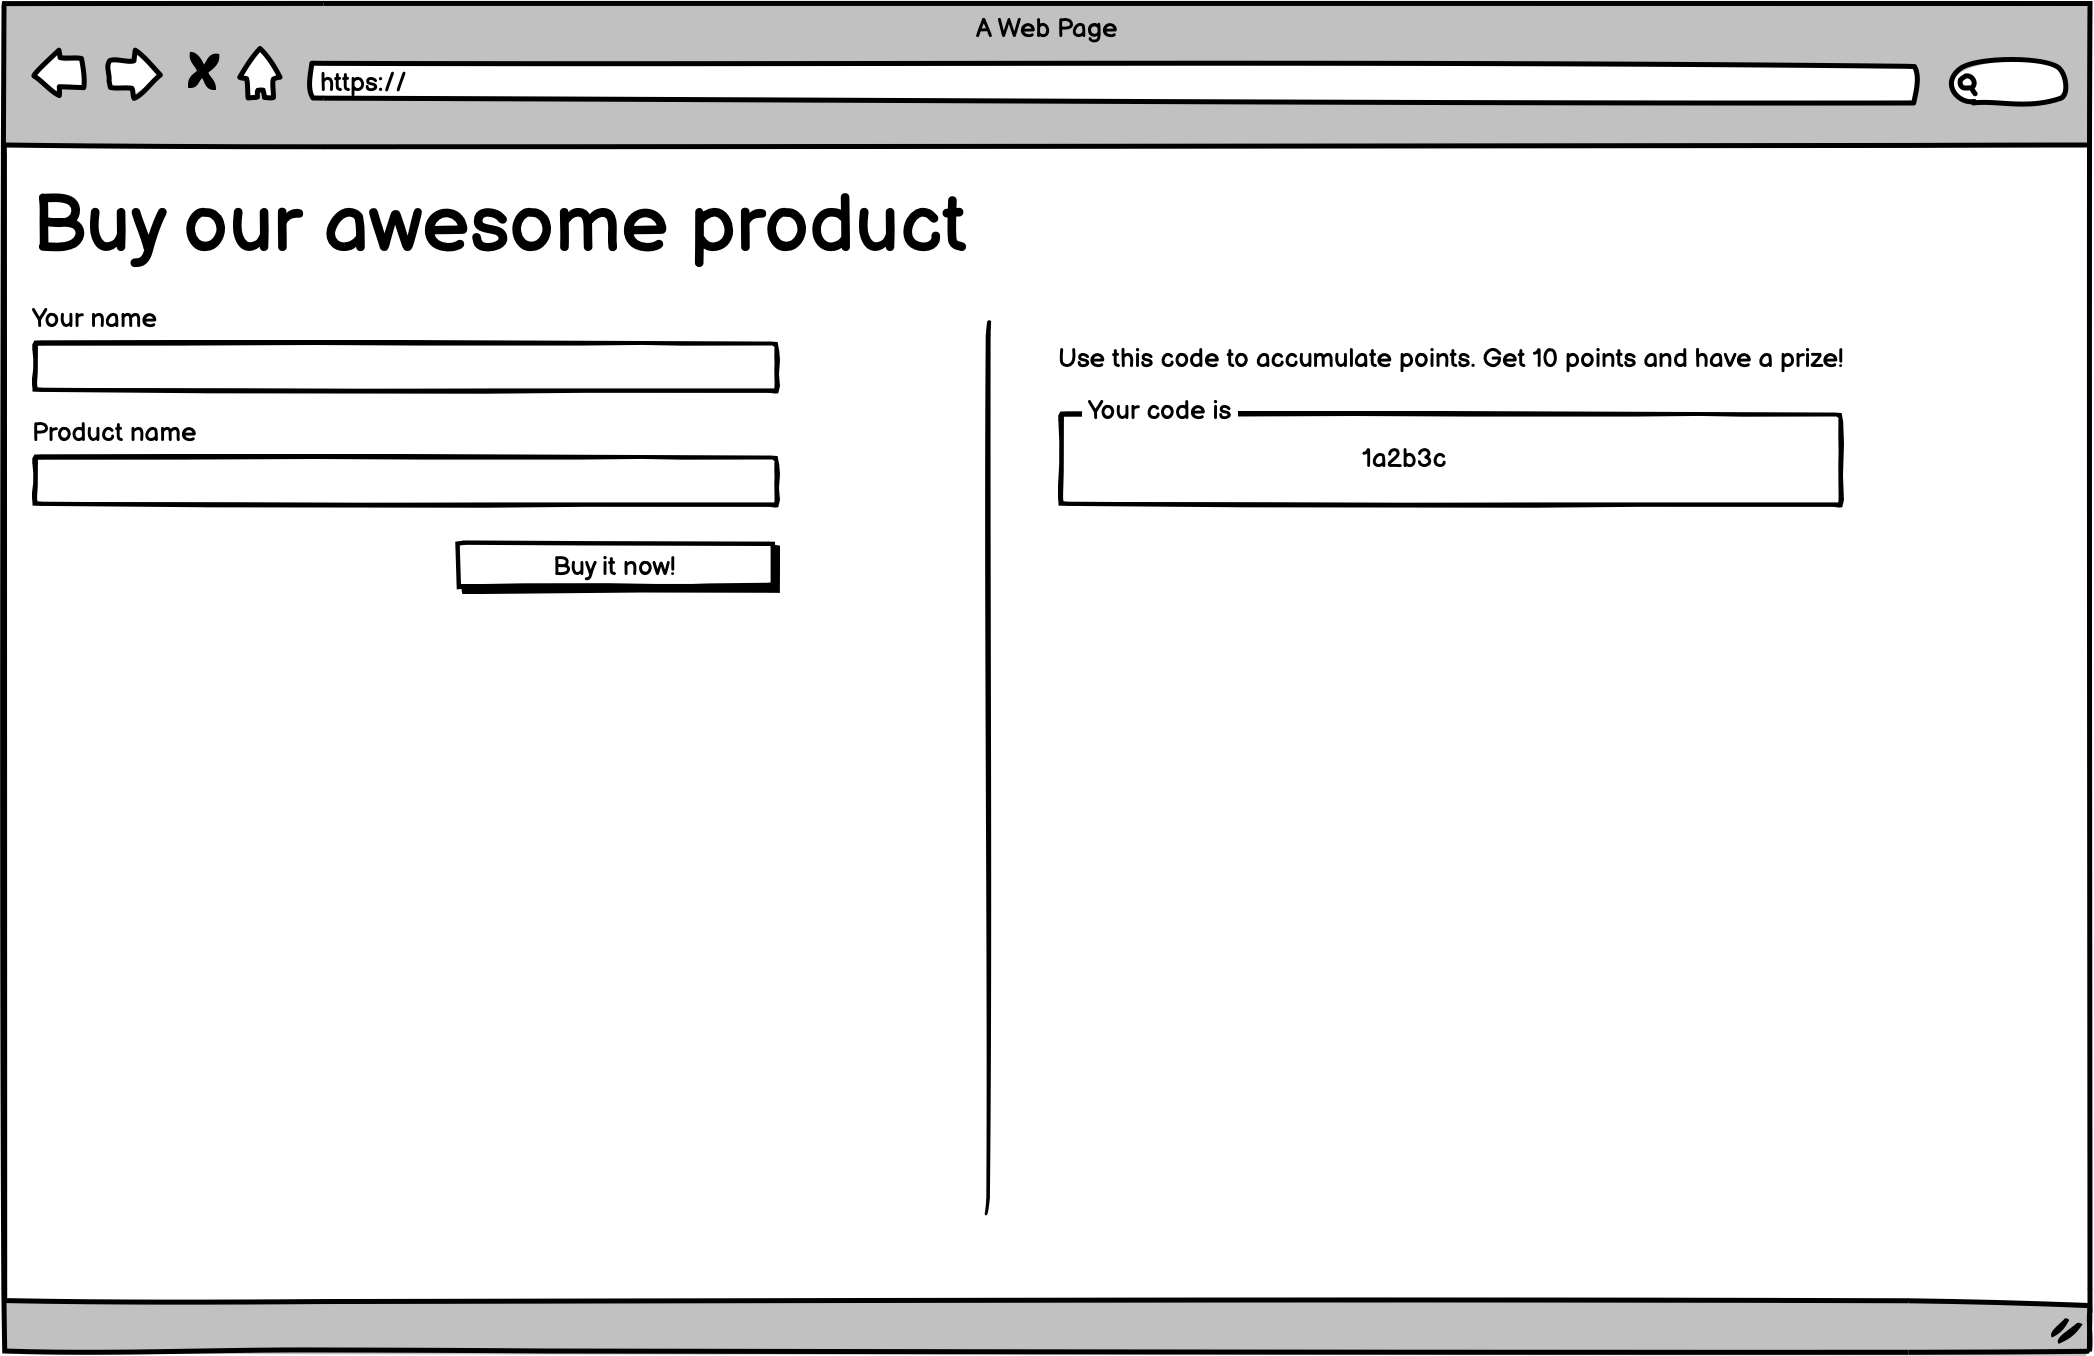
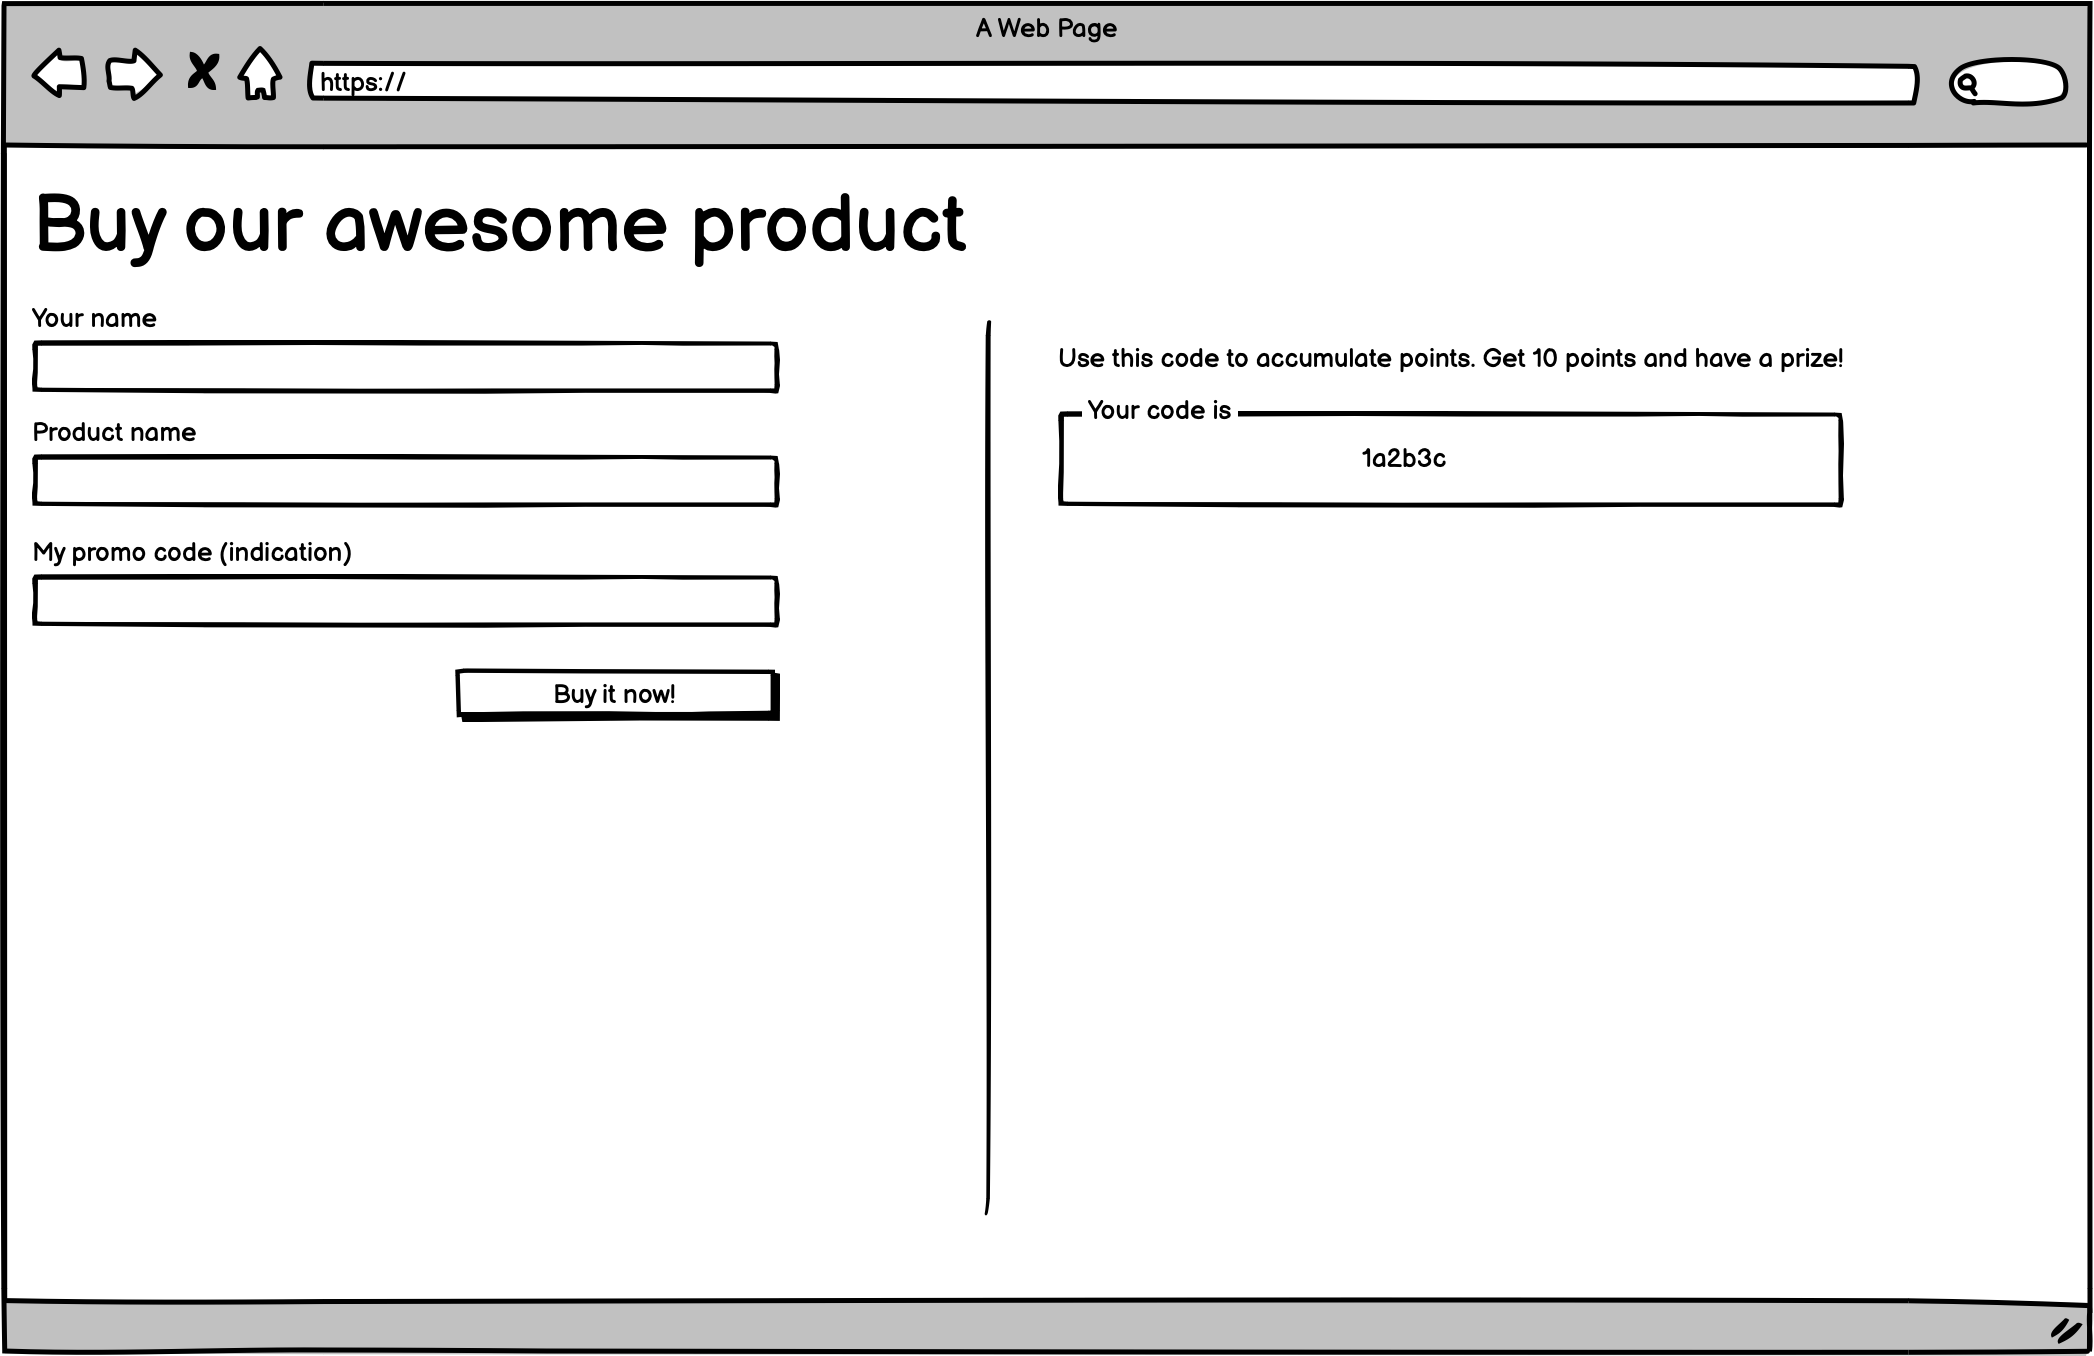
updated image form - missed indication code

Changed region(s): [[0.0, 0.3717, 0.3725, 0.4646], [0.2173, 0.4956, 0.3725, 0.5575]]

diff --git a/README.md b/README.md
@@ -39,7 +39,7 @@ Exemplo input:
 \* Não esqueça de retornar um novo código de indicação!
 
 
-Deverá ser possível consultar todos os clientes que compraram, de modo resumido, os maiores pontuadores primeiro.
+Deverá ser possível consultar todos os clientes que compraram, de modo resumido. Os maiores pontuadores são mostados primeiro.
 
 Exemplo output:
 ```
